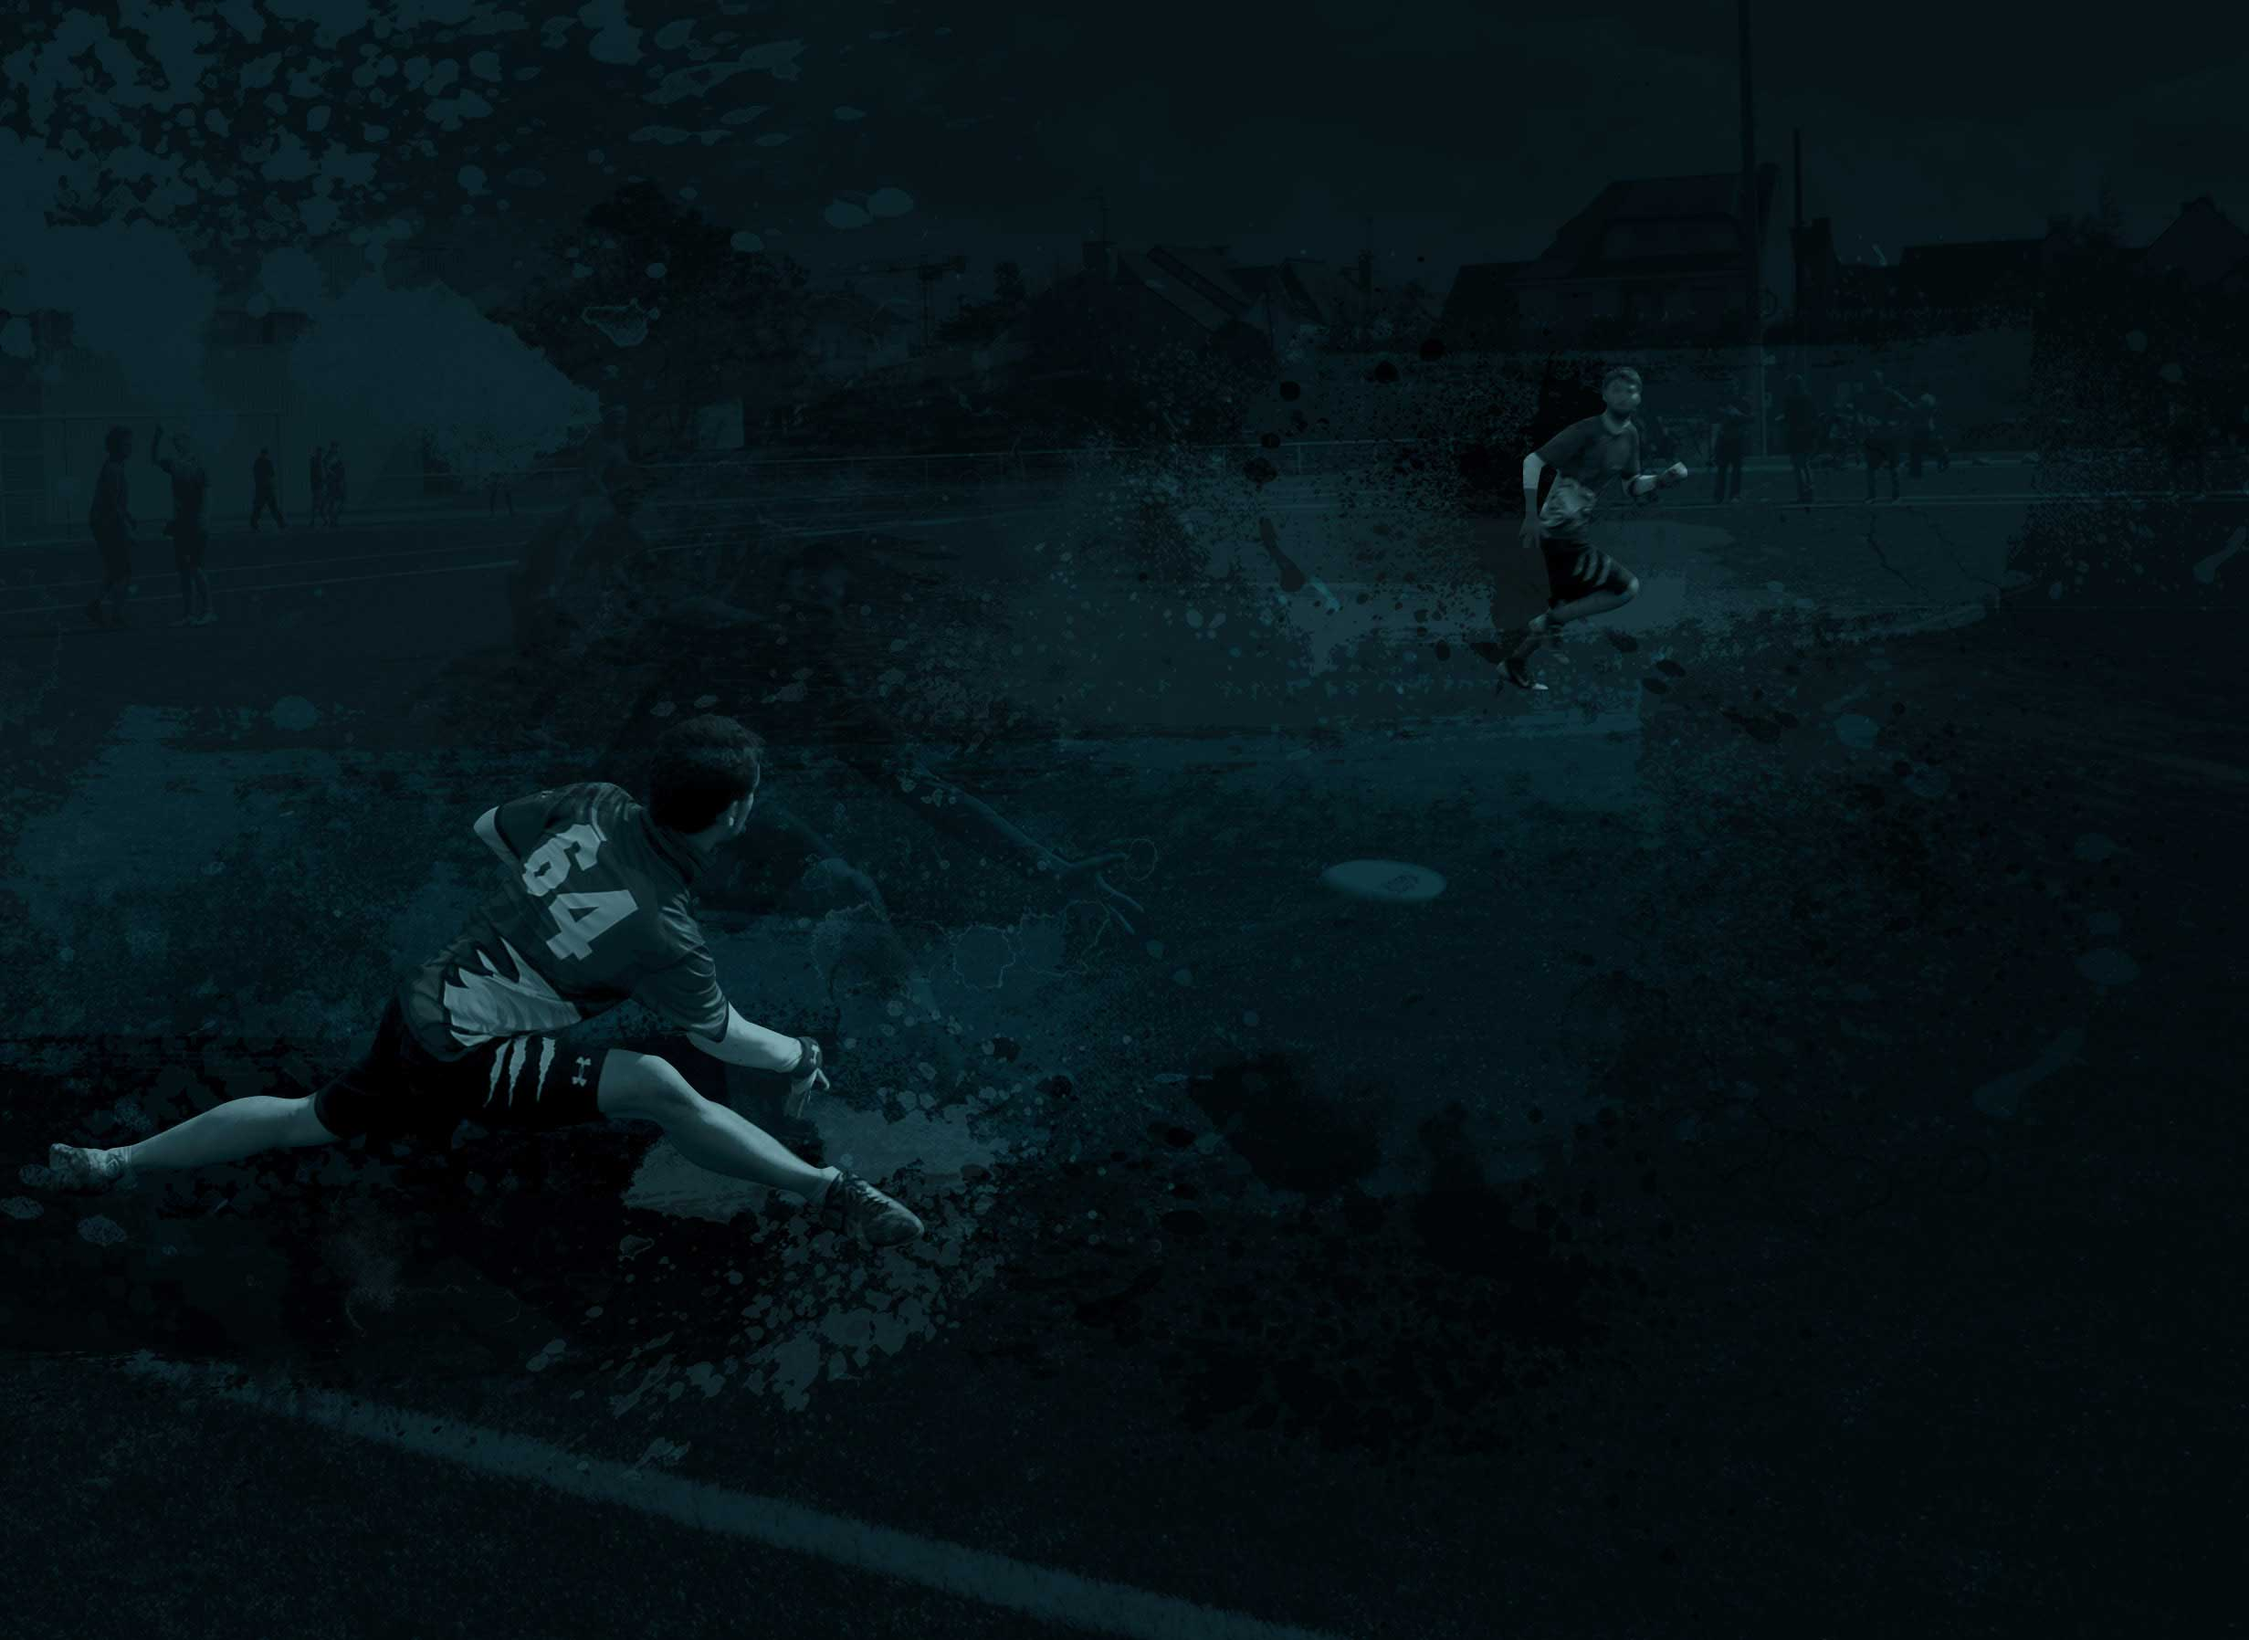
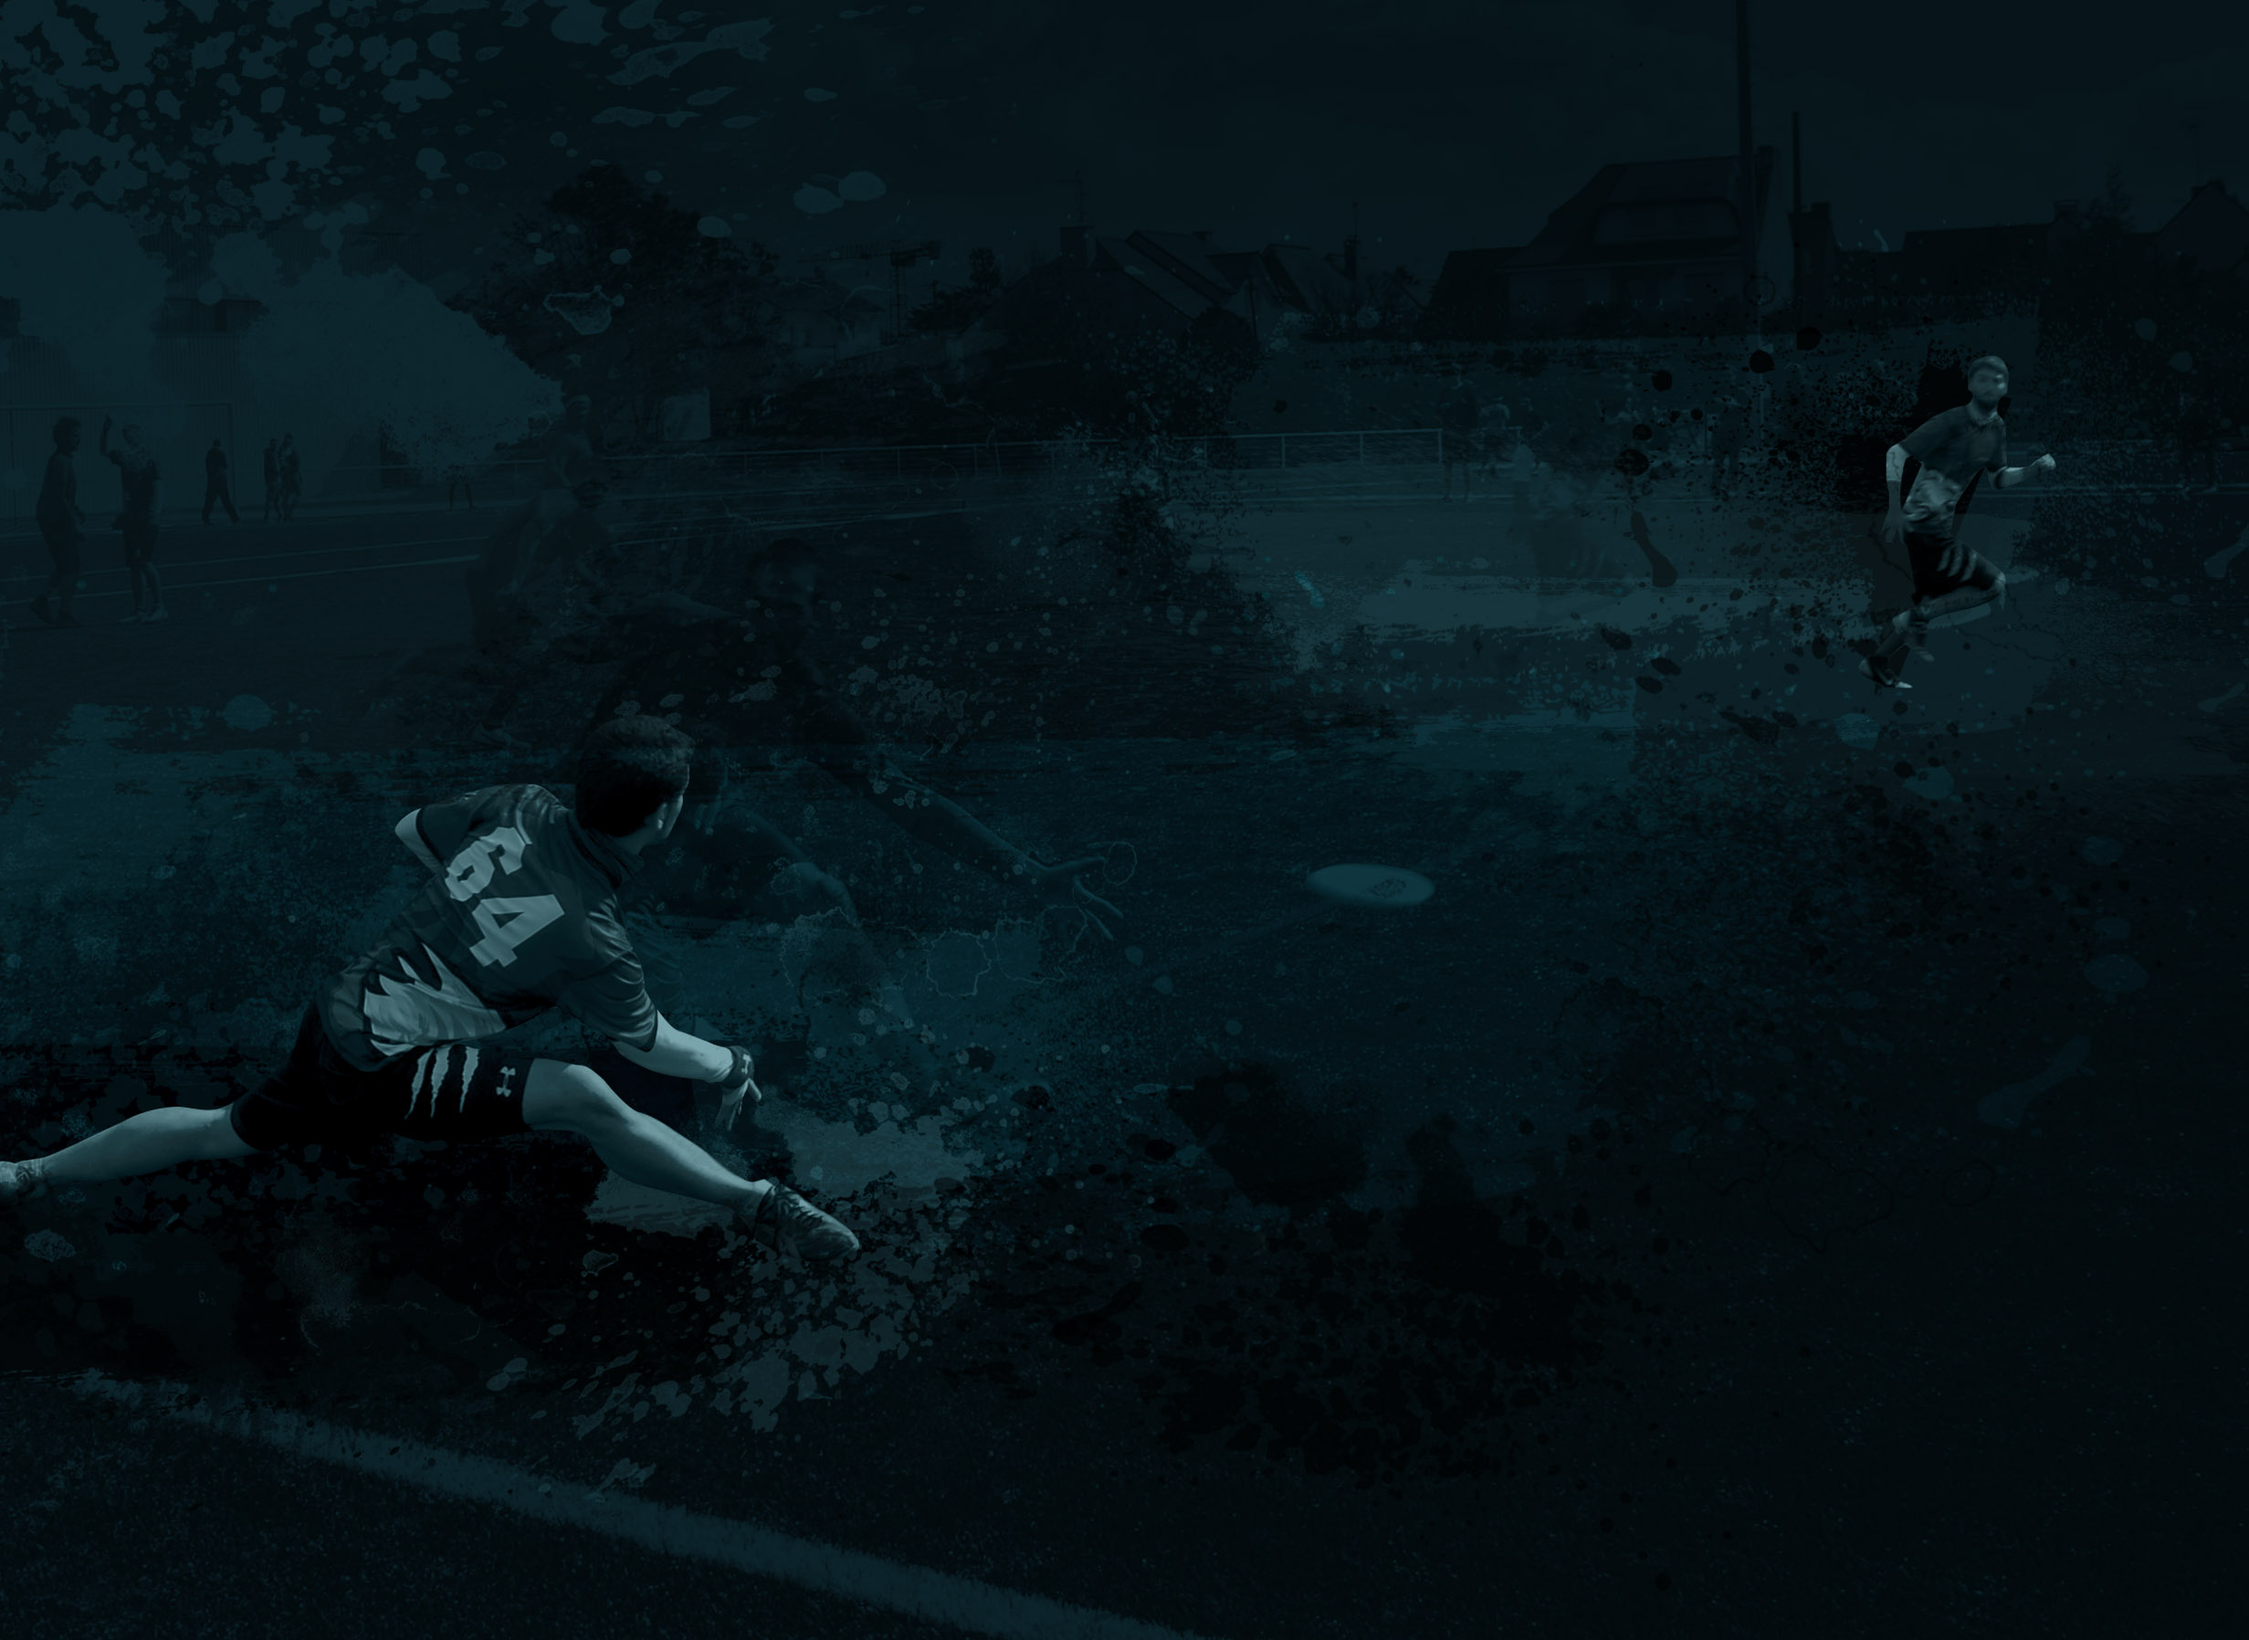
Contact et fond

diff --git a/css/style.css b/css/style.css
@@ -142,7 +142,7 @@ body.show_contact .top .menu .badge a .mf
 {
 	animation-name: badge_mf_folding;
     animation-duration: 1s;
-		animation-direction: normal;
+	animation-direction: normal;
 	margin-top: 5px;
 }
 
@@ -202,9 +202,48 @@ body.show_news .top .menu .badge,
 body.show_training .top .menu .badge,
 body.show_contact .top .menu .badge
 {
-	animation-name: badge_folding;
-    animation-duration: 0.8s;
+	-webkit-animation: badge_folding 0.8s linear 1 normal;
+	-moz-animation: badge_folding 0.8s linear 1 normal;
+	-ms-animation: badge_folding 0.8s linear 1 normal;
+	-o-animation: badge_folding 0.8s linear 1 normal;
+	animation: badge_folding 0.8s linear 1 normal; /* this comes last */
     margin-top: -100px;
+}
+
+body.show_home .top .menu .badge
+{
+	-webkit-animation: badge_folding 0.8s linear 1 reverse;
+	-moz-animation: badge_folding 0.8s linear 1 reverse;
+	-ms-animation: badge_folding 0.8s linear 1 reverse;
+	-o-animation: badge_folding 0.8s linear 1 reverse;
+	animation: badge_folding 0.8s linear 1 reverse; /* this comes last */
+	margin-top: 0;
+}
+
+@-moz-keyframes aia2{
+	from {
+		margin-top: 0;
+	}
+	to {
+		margin-top: -100px;
+	}
+}
+
+@-webkit-keyframes aia2{
+	from {
+		margin-top: 0;
+	}
+	to {
+		margin-top: -100px;
+	}
+}
+@-o-keyframes aia2{
+	from {
+		margin-top: 0;
+	}
+	to {
+		margin-top: -100px;
+	}
 }
 
 @keyframes badge_folding {
@@ -213,22 +252,6 @@ body.show_contact .top .menu .badge
 	}
 	to {
 		margin-top: -100px;
-	}
-}
-
-body.show_home .top .menu .badge
-{
-	animation-name: badge_unfolding;
-    animation-duration: 0.8s;
-	margin-top: 0;
-}
-
-@keyframes badge_unfolding {
-	from {
-		margin-top: -100px;
-	}
-	to {
-		margin-top: 0;
 	}
 }
 
@@ -438,7 +461,7 @@ a
 
 .training
 {
-	background-image: url('../images/training.jpg');
+	background-image: url('../images/Site_Mrfriz_fond4.jpg');
     background-size: cover;
     background-repeat: no-repeat;
 }
@@ -461,7 +484,7 @@ a
 
 .contact 
 {
-	background-image: url('../images/training.jpg');
+	background-image: url('../images/Site_Mrfriz_fond3.jpg');
     background-size: cover;
     background-repeat: no-repeat;
 }
@@ -475,4 +498,10 @@ a
 	position: relative;
 	margin-top: -60px;
 	vertical-align: top;
+}
+
+.contact a
+{
+	text-decoration: underline;
+	color: #198C97;
 }

diff --git a/index.html b/index.html
@@ -119,7 +119,7 @@
 
 	<div class="bottom">
 		<a class="fa fa-facebook fa-2x facebook" href="https://www.facebook.com/Mr-Friz-Ultimate-Rennes-170654506285164/timeline/" target="blank"></a>
-		<a class="fa fa-twitter fa-2x email" href="https://twitter.com/mr_friz"></a>
+		<a class="fa fa-twitter fa-2x email" href="https://twitter.com/mr_friz" target="blank"></a>
 		<div class="logo"></div>
 		<a class="fa fa-comment-o fa-2x email" href="#contact"></a>
 		<a class="fa fa-youtube-play fa-2x youtube" href="https://www.youtube.com/channel/UCg0haP0EfUp9pQGxOoXoD5A" target="blank"></a>

diff --git a/pages/contact.html b/pages/contact.html
@@ -2,5 +2,19 @@
 	<div class="bloc">
 		<h2>Nous contacter</h2>
 
+		<h3>Par email</h3>
+		<p><a href="mailto:contact@mrfriz.fr">contact@mrfriz.fr</a></p>
+
+		<h3>Par les réseaux sociaux</h3>
+		<p><a target="blank" href="https://www.facebook.com/Mr-Friz-Ultimate-Rennes-170654506285164/timeline/">Facebook</a></p>
+		<p><a target="blank" href="https://twitter.com/mr_friz">Twitter</a></p>
+
+		<h3>Par courrier</h3>
+		<p>
+			MrFriz<br/>
+			Maison des associations<br/>
+			6 cour des alliés<br/>
+			35000 Rennes
+		</p>
 	</div>
 </div>
